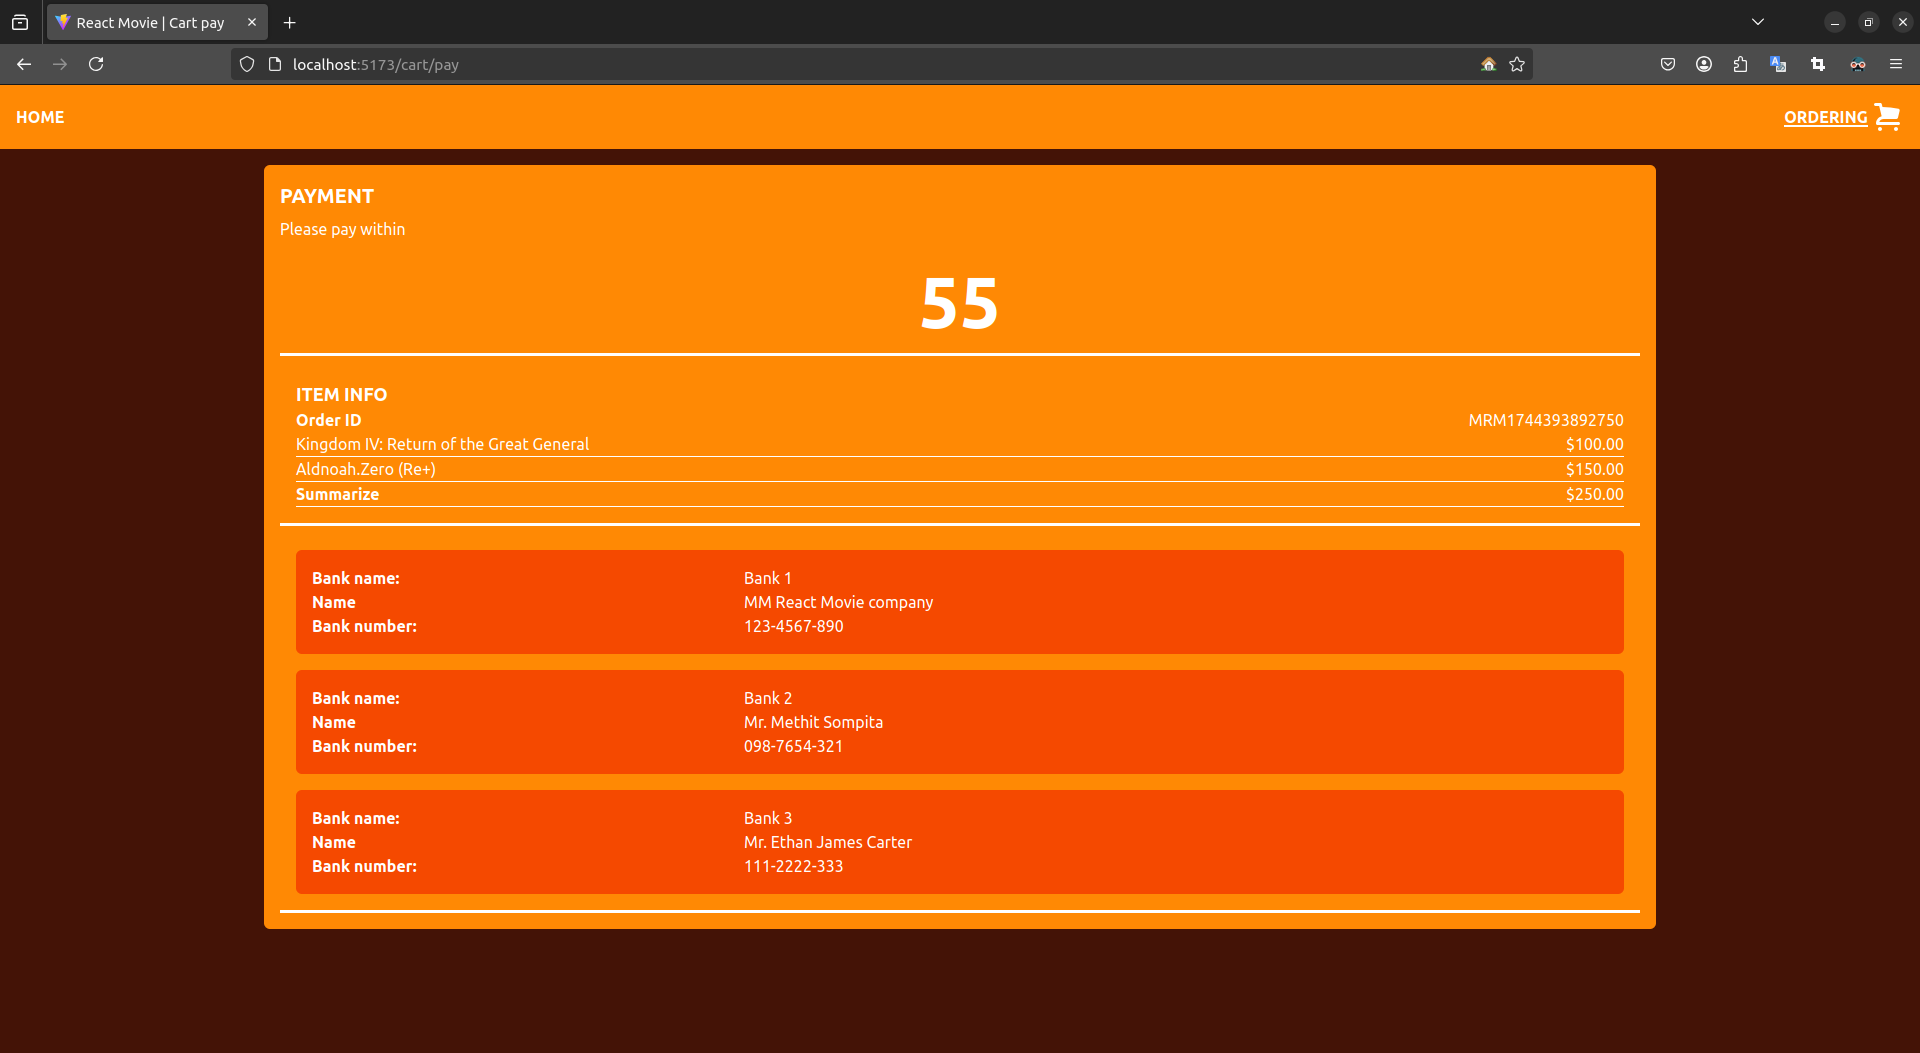
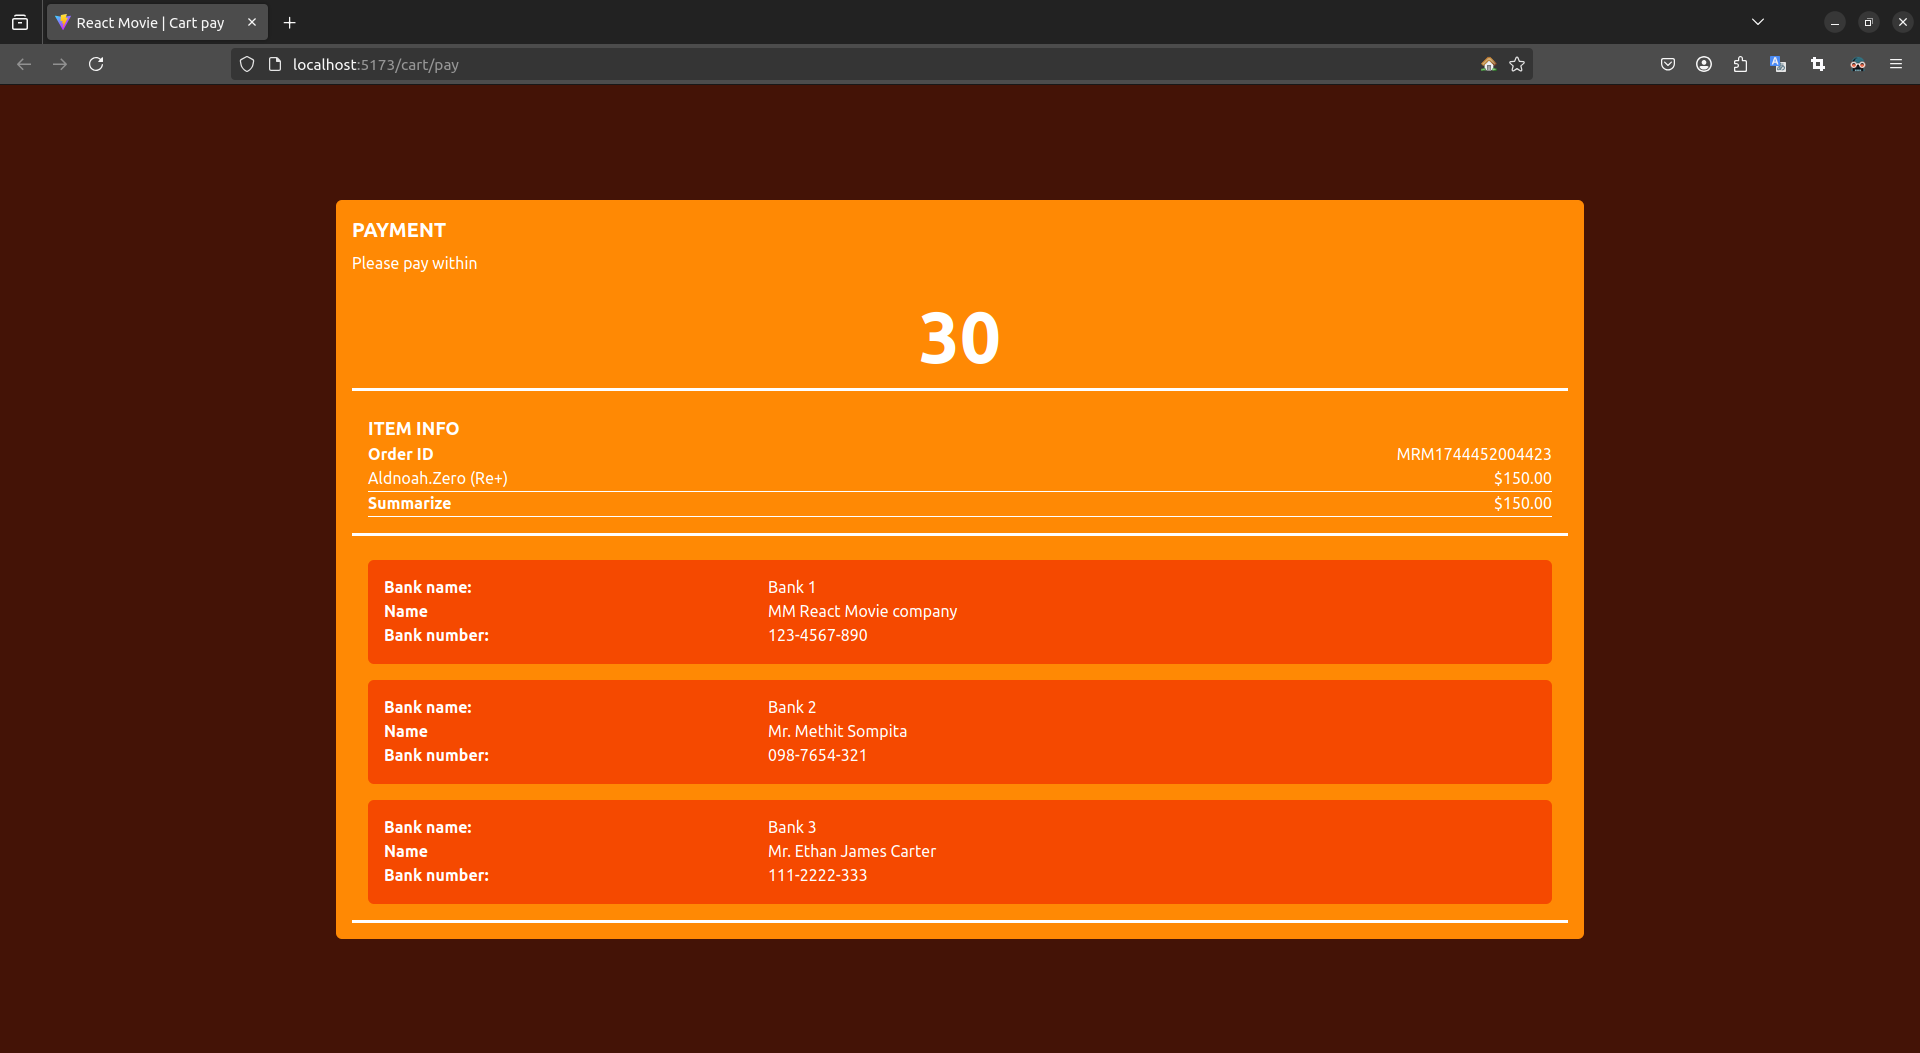
change ordering

Changed region(s): [[0.0, 0.0608, 1.0, 0.9117], [0.4688, 0.2431, 0.5312, 0.3647]]

diff --git a/src/pages/WaitPayPage.tsx b/src/pages/WaitPayPage.tsx
@@ -1,6 +1,5 @@
 import { useEffect, useState } from "react";
 import { COLORS } from "../constant";
-import { useNavigate } from "react-router-dom";
 import PriceSection from "../components/PriceSection";
 import { removePaymentLocalStorage } from "../utilize/removePayLocalStorage";
 
@@ -34,11 +33,13 @@ const BankingInfoList: IPaymentInfo[] = [
 const LINESECTION = "border-b-3 p-4"
 
 export default function WaitPayPage(){
+    console.log(localStorage.getItem(PAYITEMLOCALSTORAGE))
     const [itemList, _] = useState(
-        JSON.parse(localStorage.getItem(PAYITEMLOCALSTORAGE)!)
+        localStorage.getItem(PAYITEMLOCALSTORAGE) !== null
+            ? JSON.parse(localStorage.getItem(PAYITEMLOCALSTORAGE)!)
+            : undefined
     )
-    const timestamp = new Date().getTime()
-    const navigate = useNavigate()
+    const [timestamp, __] = useState(new Date().getTime())
     const [countDown, setCountDown] = useState(0)
     const [intervalId, setIntervalId] = useState<number|null>(null);
     const [paymentInfo, setPaymentInfo] = useState<IPaymentInfo[]|null>(null)
@@ -49,23 +50,26 @@ export default function WaitPayPage(){
         const startTimeTemp = localStorage.getItem(PAYLOCALSTORAGE)
         if(!startTimeTemp || !itemList){
             alert('Didn\'t have any order or order has timeout')
-            navigate('/')
+            window.close()
             return;
         }
         const diffSecTime = 60-Math.floor(((new Date()).getTime() - (new Date(startTimeTemp!)).getTime())/1000)
         if(diffSecTime < 0){
             removePaymentLocalStorage()
             alert('Out of time to pay!')
-            navigate('/')
+            window.close()
             return;
         }
+
         setPaymentInfo(BankingInfoList)
         setCountDown(diffSecTime)
         const countDownTimer = setInterval(() => {
             setCountDown(prev => prev-1)
         }, 1000)
         setIntervalId(countDownTimer)
-        return () => clearInterval(countDownTimer)
+        return () => {
+            clearInterval(countDownTimer)
+        }
     }, [])
 
     useEffect(() => {
@@ -84,76 +88,80 @@ export default function WaitPayPage(){
         return <></>
         
     return <main
-        className="flex justify-center pt-4 px-6 flex-col w-full"
+        className={`${COLORS.bg.tertiary} min-h-screen h-fit p-4 text-white flex justify-center pt-4 px-6 flex-col w-full`}
     >
         <div
-            className={`${COLORS.bg.primary} w-full p-4 rounded-md flex flex-col gap-2`}
+            className="w-full flex justify-center"
         >
-            <h1
-                className="text-xl uppercase font-bold"
-            >
-                Payment
-            </h1>
-            <p>
-                Please pay within
-            </p>
             <div
-                className={`text-7xl font-bold text-center ${LINESECTION}`}
+                className={`${COLORS.bg.primary} w-full md:w-2/3 p-4 rounded-md flex flex-col gap-2`}
             >
-                {
-                    isSucces === null
-                        ? countDown > 0
-                            ? countDown
-                            : 'Timeout'
-                        : isSucces
-                            ? <>
-                                Success paid
-                            </>
-                            : <>
-                                Failed to Paid
-                                <div
-                                    className="font-normal text-base underline"
-                                >
-                                    If you have any issue please contact seller
-                                </div>
-                            </>
-                }
-            </div>
-            <div
-                className={`${LINESECTION}`}
-            >
-                <h3
-                    className="text-lg uppercase font-bold"
+                <h1
+                    className="text-xl uppercase font-bold"
                 >
-                    Item info
-                </h3>
+                    Payment
+                </h1>
+                <p>
+                    Please pay within
+                </p>
                 <div
-                    className="flex justify-between"
+                    className={`text-7xl font-bold text-center ${LINESECTION}`}
                 >
-                    <div
-                        className="font-bold"
-                    >
-                        Order ID
-                    </div>
-                    <div>
-                        MRM{timestamp}
-                    </div>
+                    {
+                        isSucces === null
+                            ? countDown > 0
+                                ? countDown
+                                : 'Timeout'
+                            : isSucces
+                                ? <>
+                                    Success paid
+                                </>
+                                : <>
+                                    Failed to Paid
+                                    <div
+                                        className="font-normal text-base underline"
+                                    >
+                                        If you have any issue please contact seller
+                                    </div>
+                                </>
+                    }
                 </div>
-                <PriceSection 
-                    cart={itemList}
-                />
-            </div>
-            <div
-                className={`${LINESECTION} flex flex-col gap-4`}
-            >
-                {
-                    paymentInfo?.map((b,i) =>
-                        <PaymentSection
-                            key={i}
-                            data={b}
-                        />
-                    )
-                }
+                <div
+                    className={`${LINESECTION}`}
+                >
+                    <h3
+                        className="text-lg uppercase font-bold"
+                    >
+                        Item info
+                    </h3>
+                    <div
+                        className="flex justify-between"
+                    >
+                        <div
+                            className="font-bold"
+                        >
+                            Order ID
+                        </div>
+                        <div>
+                            MRM{timestamp}
+                        </div>
+                    </div>
+                    <PriceSection 
+                        cart={itemList}
+                    />
+                </div>
+                <div
+                    className={`${LINESECTION} flex flex-col gap-4`}
+                >
+                    {
+                        paymentInfo?.map((b,i) =>
+                            <PaymentSection
+                                key={i}
+                                data={b}
+                            />
+                        )
+                    }
+                </div>
             </div>
         </div>
     </main>

diff --git a/src/components/NavBar.tsx b/src/components/NavBar.tsx
@@ -30,30 +30,20 @@ export default function NavBar(){
                 </Link>
             )
         }
-        <div
-            className="flex flex-row items-center"
+        <Link
+            className={`${LINKCLASS} flex flex-row gap-2 justify-center items-center`}
+            to={'/cart'}
         >
-            <Link
-                to="/cart/pay"
-                className="uppercase font-bold underline hover:brightness-90"
-            >
-                Ordering
-            </Link>
-            <Link
-                className={`${LINKCLASS} flex flex-row gap-2 justify-center items-center`}
-                to={'/cart'}
-            >
-                {
-                    cartContext && cartContext.cart
-                        ?   cartContext.cart.length !== 0
-                            ? <span>
-                                {cartContext.cart.length}
-                            </span>
-                            : <></>
+            {
+                cartContext && cartContext.cart
+                    ?   cartContext.cart.length !== 0
+                        ? <span>
+                            {cartContext.cart.length}
+                        </span>
                         : <></>
-                }
-                <ShoppingCartIcon className="size-8"/>
-            </Link>
-        </div>
+                    : <></>
+            }
+            <ShoppingCartIcon className="size-8"/>
+        </Link>
     </nav>
 }

diff --git a/src/App.tsx b/src/App.tsx
@@ -8,6 +8,7 @@ import { getGenreList } from "./utilize/fetch/movie"
 import CartPage from "./pages/CartPage"
 import MovieEditPricePage from "./pages/MovieEditPricePage"
 import WaitPayPage from "./pages/WaitPayPage"
+import { autoRemovePaymentLocalStorage } from "./utilize/removePayLocalStorage"
 
 export const GenreListContext = createContext<IGERN[]|undefined>(undefined)
 export const CartContext = createContext<{
@@ -28,6 +29,7 @@ function App() {
     getGenreList()
       .then(json => setGenres(json.genres))
       .catch(console.error)
+    autoRemovePaymentLocalStorage()
   }, [])
 
   useEffect(() => {
@@ -44,8 +46,8 @@ function App() {
               <Route path="/movie/:id" element={<MovieDetailPage />} />
               <Route path="/movie/:id/edit" element={<MovieEditPricePage />} />
               <Route path="/cart" element={<CartPage />} />
-              <Route path="/cart/pay" element={<WaitPayPage />} />
             </Route>
+            <Route path="/cart/pay" element={<WaitPayPage />} />
           </Routes>
         </BrowserRouter>
       </GenreListContext.Provider>

diff --git a/src/pages/CartPage.tsx b/src/pages/CartPage.tsx
@@ -88,10 +88,11 @@ export default function CartPage(){
                             return;
                         }
                         localStorage.setItem(PAYITEMLOCALSTORAGE, localStorage.getItem('cart')!)
+                        localStorage.setItem(PAYLOCALSTORAGE, (new Date()).toString())
                         localStorage.removeItem('cart')
                         cartContext?.setCart(undefined)
-                        localStorage.setItem(PAYLOCALSTORAGE, (new Date()).toString())
-                        navigate('/cart/pay')
+                        window.open('/cart/pay', '_blank')
+                        navigate('/')
                     }}
                 >Pay</button>
             </div>

diff --git a/src/utilize/removePayLocalStorage.ts b/src/utilize/removePayLocalStorage.ts
@@ -5,8 +5,7 @@ export const autoRemovePaymentLocalStorage = () => {
     if(startTimeTemp){
         const diffSecTime = 60-Math.floor(((new Date()).getTime() - (new Date(startTimeTemp!)).getTime())/1000)
         if(diffSecTime < 0){
-            localStorage.removeItem(PAYLOCALSTORAGE)
-            localStorage.removeItem(PAYITEMLOCALSTORAGE)
+            removePaymentLocalStorage()
             return true;
         }
     }
